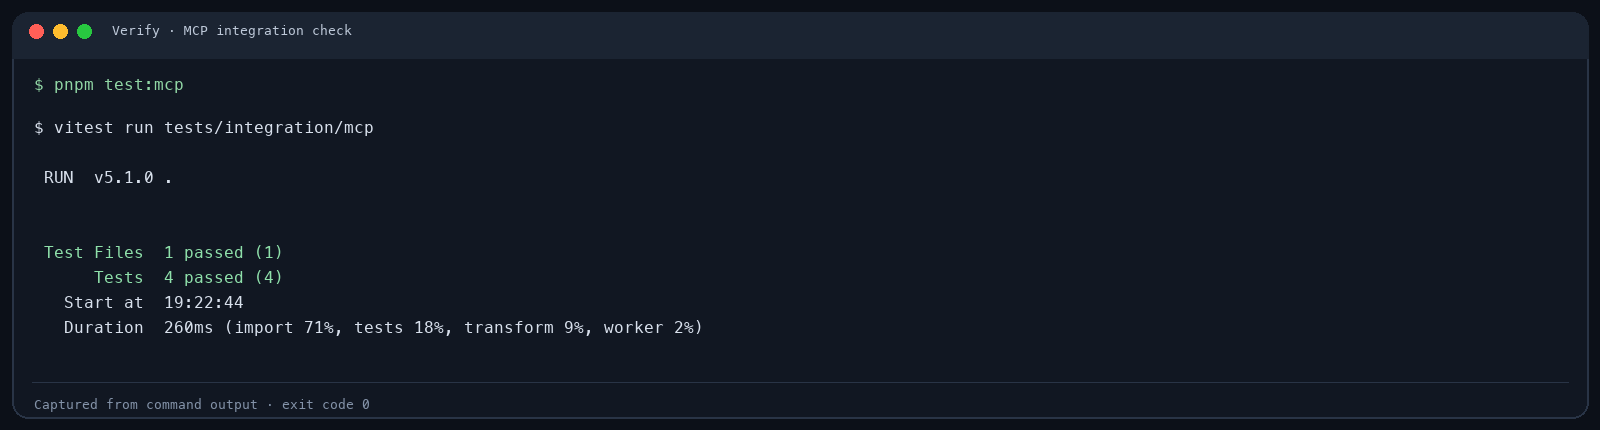
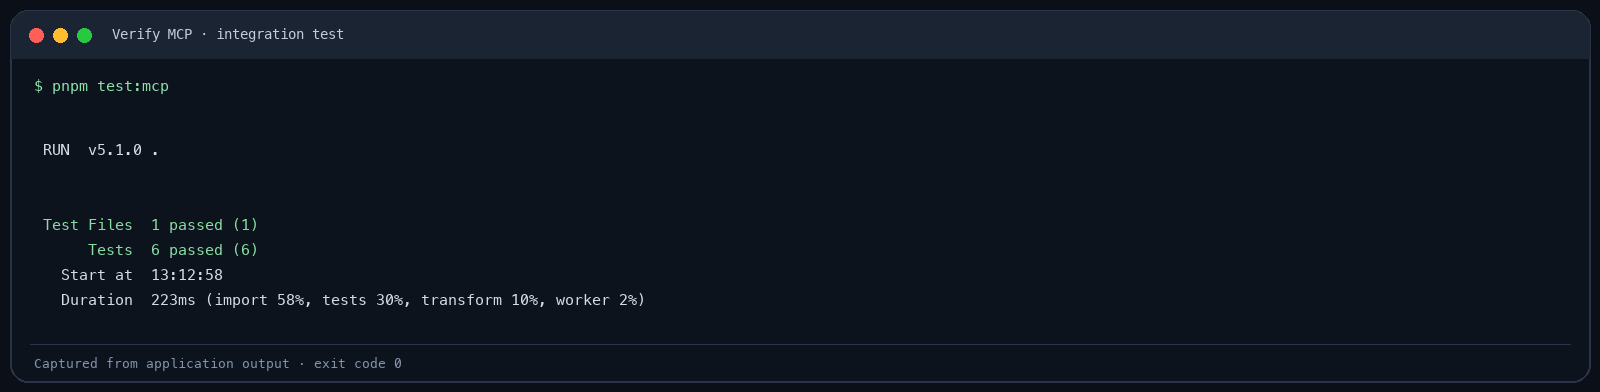
docs: refresh runtime guide and output screenshots

diff --git a/README.md b/README.md
@@ -10,7 +10,7 @@ AI agents can produce plausible code quickly. Teams still need a repeatable way 
 - Runs enabled tests, lint, and typecheck commands through a configured command allowlist, without a shell, with time and output limits.
 - Applies protected-path policy and can compare findings with a saved baseline to distinguish introduced, persistent, and resolved issues.
 - Exposes one verification engine to developers, CI jobs, and MCP clients, so each interface uses the same rules and status logic.
-- Optionally sends redacted changed lines to an independent FreeLLMAPI reviewer. It returns validated findings and evidence without reading or modifying repository files.
+- Optionally sends screened, redacted changed lines to an independent FreeLLMAPI reviewer. It returns validated findings and evidence without reading or modifying repository files, and retries one time for transient gateway failures.
 - Keeps external coding harnesses in control: they investigate findings, make changes, and request re-verification through MCP.
 
 ## Example output
@@ -19,9 +19,13 @@ The first image shows a real CLI run against an isolated demo repository contain
 
 ![Verify CLI detecting seeded findings in an isolated demo repository](screenshots/scan-findings.png)
 
-The MCP adapter is exercised with an in-memory client/server integration test. This run passed all four MCP integration tests.
+The clean check runs the configured project tests and returns a passing report:
 
-![MCP integration test output showing four passing tests](screenshots/mcp-integration.png)
+![Verify CLI check passing with configured tests](screenshots/check-passed.png)
+
+The MCP adapter is exercised with in-memory client/server integration tests. The latest run passed all six MCP integration tests; a separate stdio client smoke test listed all three tools and called `verify_changes` successfully.
+
+![MCP integration test output showing six passing tests](screenshots/mcp-integration.png)
 
 ## Quick start
 
@@ -30,7 +34,7 @@ The MCP adapter is exercised with an in-memory client/server integration test. T
 ```sh
 pnpm install --frozen-lockfile
 pnpm build
-pnpm dev init                 # optional: create .verifyrc.json
+pnpm dev init                 # run once if the target repository lacks .verifyrc.json
 pnpm dev scan --base main     # inspect changes against main
 pnpm dev check --base main    # inspect changes and run enabled quality checks
 ```
@@ -42,7 +46,7 @@ pnpm dev scan --base main --format json > verify-result.json
 pnpm dev report --input verify-result.json --format markdown
 ```
 
-Exit codes are `0` for deterministic verification pass, `1` for blocking deterministic findings, `2` for invalid arguments or configuration, and `3` for an execution error. AI reviewer availability and findings are reported separately and never change deterministic pass/fail status.
+Exit codes are `0` for a pass, `1` for blocking deterministic findings, `2` for invalid arguments or configuration, and `3` for an execution error or an evaluation with incomplete model reviews. AI reviewer availability and findings are reported separately and do not change scan/check pass/fail status.
 
 ## Architecture
 
@@ -122,7 +126,7 @@ The MCP server uses stdio and does not open a network port. The HTTP API binds t
 
 ## Independent AI code reviewer
 
-The reviewer is read-only and runs only when requested. It sends redacted changed lines to FreeLLMAPI, asks for evidence-backed structured findings, then validates every reported location and excerpt against the submitted change. Sensitive paths such as `.env`, private keys, credentials files, and SSH material are omitted. Provider or response failures appear in `aiReview` metadata and leave deterministic status intact.
+The reviewer is read-only and runs only when requested. Before sending changes to FreeLLMAPI, Verify redacts known credential formats and high-entropy opaque values, omits sensitive files and credential-like path components, and skips the request if secret-like material remains. It asks for evidence-backed structured findings, then validates each reported location and excerpt against the submitted change. Provider failures appear in `aiReview` metadata and leave deterministic status intact. A transient provider failure is retried at most once; the request count is included in reports.
 
 ```sh
 cp .env.example .env
@@ -143,6 +147,10 @@ pnpm dev eval --benchmark benchmarks/tasks --models model-a,model-b
 ```
 
 See [evaluation methodology](docs/EVALUATION.md). The bundled tasks are reproducible examples, not a broad model leaderboard.
+
+One live FreeLLMAPI run on 2026-11-21 completed 7/10 reviews through `auto` (75.0% precision, 66.7% recall, 70.6% F1). The advertised `codestral` model returned provider errors on all 10 tasks. Failed requests count as missed findings; these figures describe one run and do not predict general model quality. The evaluator now exits with code `3` when any model/task review fails.
+
+![Ten-fixture live evaluation report with review success and finding metrics](screenshots/evaluation-output.png)
 
 ## Development and validation
 

diff --git a/docs/CLI.md b/docs/CLI.md
@@ -2,6 +2,8 @@
 
 Run commands from the repository being checked. During development use `pnpm dev <command>`; after building or installing, use `verify <command>`.
 
+The target repository must contain a valid `.verifyrc.json`. Run `pnpm dev init` during development or `verify init` after installing the CLI when starting in a repository that does not have one; initialization refuses to overwrite an existing configuration.
+
 | Command | Purpose |
 | --- | --- |
 | init | Create `.verifyrc.json`; refuses to overwrite an existing file |
@@ -39,3 +41,5 @@ verify report --input RESULT.json [--format terminal|json|markdown] [--output FI
 ```
 
 Evaluation compares model reviewers against labeled, immutable benchmark changes. Use `verify models --review` to list IDs for that gateway. The report command accepts verification and evaluation result files.
+
+The evaluation command saves its JSON and Markdown reports even when some provider calls fail. It returns exit code `3` if any model/task review did not complete, so automation can distinguish a full evaluation from a partial report.

diff --git a/docs/EVALUATION.md b/docs/EVALUATION.md
@@ -16,6 +16,8 @@ The benchmark runner compares two or three explicit reviewer model IDs against t
 
 The command writes a JSON result and a Markdown comparison under `benchmarks/results/`. Each model/task pair starts from a separate temporary fixture repository, and the temporary workspaces are removed after the run.
 
+Partial results are still saved for diagnosis. The CLI returns exit code `3` if any model/task review fails or returns an invalid response; inspect the per-run status before comparing model scores.
+
 ## Task definitions
 
 Each JSON file in the task directory defines:
